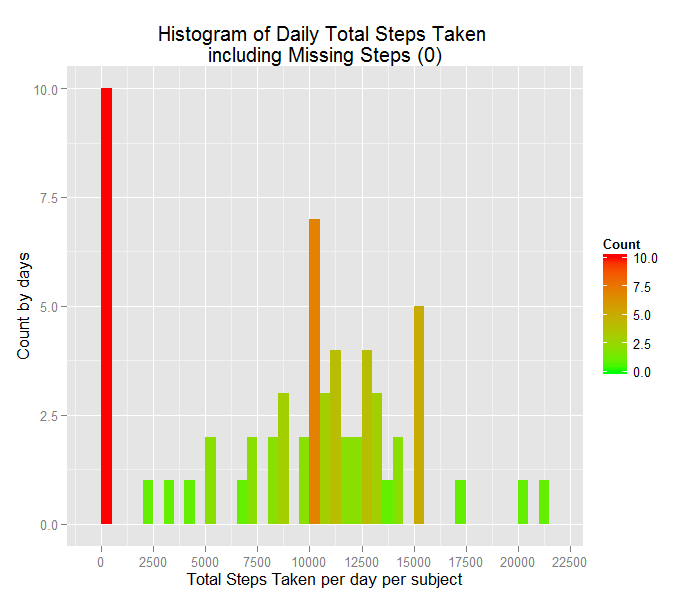
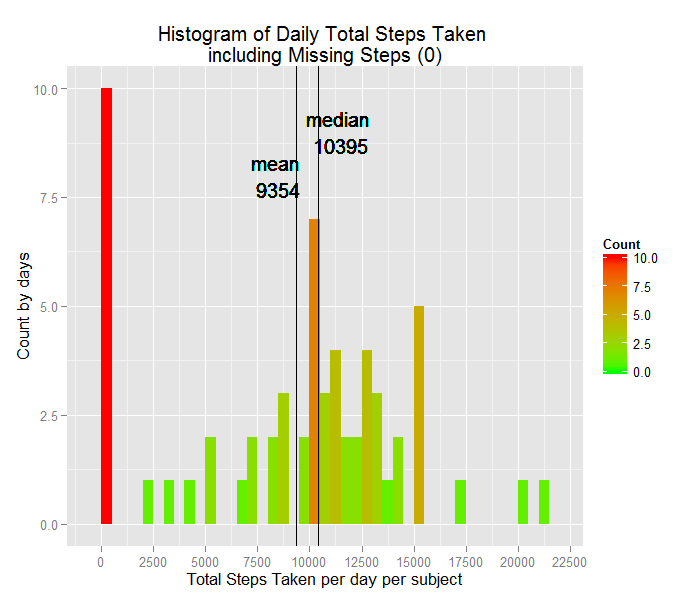
adding geom_vline to histogram

Changed region(s): [[0.42, 0.18, 0.54, 0.27], [0.36, 0.27, 0.45, 0.33]]

diff --git a/PA1_template.html b/PA1_template.html
@@ -204,7 +204,7 @@ knit_hooks$set(plot = knitr:::hook_plot_html)
 <pre><code class="r">ifelse(!file.exists(&quot;data&quot;),dir.create(&quot;data&quot;),&quot;dir exists&quot;)
 </code></pre>
 
-<pre><code>[1] TRUE
+<pre><code>[1] &quot;dir exists&quot;
 </code></pre>
 
 <pre><code class="r">file&lt;-&quot;http://d396qusza40orc.cloudfront.net/repdata%2Fdata%2Factivity.zip&quot;
@@ -213,7 +213,7 @@ ifelse(!file.exists(&quot;./data/activity.zip&quot;),
        &quot;Skip! File downloaded&quot;)
 </code></pre>
 
-<pre><code>[1] 0
+<pre><code>[1] &quot;Skip! File downloaded&quot;
 </code></pre>
 
 <pre><code class="r">
@@ -242,6 +242,8 @@ head(act)
 <h2>Make a histogram of the total number of steps taken each day</h2>
 
 <pre><code class="r">## Histogram using ggplot2
+mean&lt;-mean(sum$total_steps)
+med&lt;-median(sum$total_steps)
 library(ggplot2)
       m &lt;- ggplot(sum, aes(x=total_steps))
       m + 
@@ -250,17 +252,17 @@ library(ggplot2)
         labs(x=&quot;Total Steps Taken per day per subject&quot;,ces=1.2) +
         scale_fill_gradient(&quot;Count&quot;, low = &quot;green&quot;, high = &quot;red&quot;) +
         scale_y_continuous(&quot;Count by days&quot;) +
-        scale_x_continuous(breaks=c(seq(0,22500, by=2500)))
+        scale_x_continuous(breaks=c(seq(0,22500, by=2500))) +
+        geom_vline(xintercept=c(mean,med),show.guide=T)+
+        geom_text(data=NULL,x=mean-1000,y=8,label=paste(&quot;mean\n&quot;,round(mean,0)))+
+        geom_text(data=NULL,x=med+1000,y=9,label=paste(&quot;median\n&quot;,med))
 </code></pre>
 
[2 lines of base64/hex data omitted]
 
 <h2>Calculate and report the mean and median total number of steps taken per day</h2>
 
-<pre><code class="r">mean&lt;-mean(sum$total_steps)
-med&lt;-median(sum$total_steps)
-
-print(paste(&quot;Mean of total number of steps taken per day is:&quot;,round(mean,1)))
+<pre><code class="r">print(paste(&quot;Mean of total number of steps taken per day is:&quot;,round(mean,1)))
 </code></pre>
 
 <pre><code>[1] &quot;Mean of total number of steps taken per day is: 9354.2&quot;
@@ -367,6 +369,8 @@ setnames(sum,&quot;V1&quot;,&quot;total_steps&quot;)
 ##re-generating ENDs
 
 ## Histogram using ggplot2
+mean&lt;-mean(sum$total_steps)
+med&lt;-median(sum$total_steps)
 library(ggplot2)
       m &lt;- ggplot(sum, aes(x=total_steps))
       m + 
@@ -375,10 +379,13 @@ library(ggplot2)
         labs(x=&quot;Total Steps Taken per day per subject&quot;,ces=1.2) +
         scale_fill_gradient(&quot;Count&quot;, low = &quot;green&quot;, high = &quot;red&quot;) +
         scale_y_continuous(&quot;Count by days&quot;) +
-        scale_x_continuous(breaks=c(seq(0,22500, by=2500)))
+        scale_x_continuous(breaks=c(seq(0,22500, by=2500))) +
+        geom_vline(xintercept=c(mean,med),show.guide=T)+
+        geom_text(data=NULL,x=mean-1000,y=6,label=paste(&quot;mean\n&quot;,round(mean,0)))+
+        geom_text(data=NULL,x=med+1000,y=7,label=paste(&quot;median\n&quot;,med))
 </code></pre>
 
[2 lines of base64/hex data omitted]
 
 <h2>Are there differences in activity patterns between weekdays and weekends?</h2>
 

diff --git a/PA1_template.md b/PA1_template.md
@@ -28,7 +28,7 @@ ifelse(!file.exists("data"),dir.create("data"),"dir exists")
 ```
 
 ```
-[1] TRUE
+[1] "dir exists"
 ```
 
 ```r
@@ -39,7 +39,7 @@ ifelse(!file.exists("./data/activity.zip"),
 ```
 
 ```
-[1] 0
+[1] "Skip! File downloaded"
 ```
 
 ```r
@@ -73,6 +73,8 @@ head(act)
 
 ```r
 ## Histogram using ggplot2
+mean<-mean(sum$total_steps)
+med<-median(sum$total_steps)
 library(ggplot2)
       m <- ggplot(sum, aes(x=total_steps))
       m + 
@@ -81,7 +83,10 @@ library(ggplot2)
         labs(x="Total Steps Taken per day per subject",ces=1.2) +
         scale_fill_gradient("Count", low = "green", high = "red") +
         scale_y_continuous("Count by days") +
-        scale_x_continuous(breaks=c(seq(0,22500, by=2500)))
+        scale_x_continuous(breaks=c(seq(0,22500, by=2500))) +
+        geom_vline(xintercept=c(mean,med),show.guide=T)+
+        geom_text(data=NULL,x=mean-1000,y=8,label=paste("mean\n",round(mean,0)))+
+        geom_text(data=NULL,x=med+1000,y=9,label=paste("median\n",med))
 ```
 
 <div class="rimage center"><img src="fig/unnamed-chunk-2.png" title="plot of chunk unnamed-chunk-2" alt="plot of chunk unnamed-chunk-2" class="plot" /></div>
@@ -91,9 +96,6 @@ library(ggplot2)
 
 
 ```r
-mean<-mean(sum$total_steps)
-med<-median(sum$total_steps)
-
 print(paste("Mean of total number of steps taken per day is:",round(mean,1)))
 ```
 
@@ -232,6 +234,8 @@ setnames(sum,"V1","total_steps")
 ##re-generating ENDs
 
 ## Histogram using ggplot2
+mean<-mean(sum$total_steps)
+med<-median(sum$total_steps)
 library(ggplot2)
       m <- ggplot(sum, aes(x=total_steps))
       m + 
@@ -240,7 +244,10 @@ library(ggplot2)
         labs(x="Total Steps Taken per day per subject",ces=1.2) +
         scale_fill_gradient("Count", low = "green", high = "red") +
         scale_y_continuous("Count by days") +
-        scale_x_continuous(breaks=c(seq(0,22500, by=2500)))
+        scale_x_continuous(breaks=c(seq(0,22500, by=2500))) +
+        geom_vline(xintercept=c(mean,med),show.guide=T)+
+        geom_text(data=NULL,x=mean-1000,y=6,label=paste("mean\n",round(mean,0)))+
+        geom_text(data=NULL,x=med+1000,y=7,label=paste("median\n",med))
 ```
 
 <div class="rimage center"><img src="fig/unnamed-chunk-7.png" title="plot of chunk unnamed-chunk-7" alt="plot of chunk unnamed-chunk-7" class="plot" /></div>
